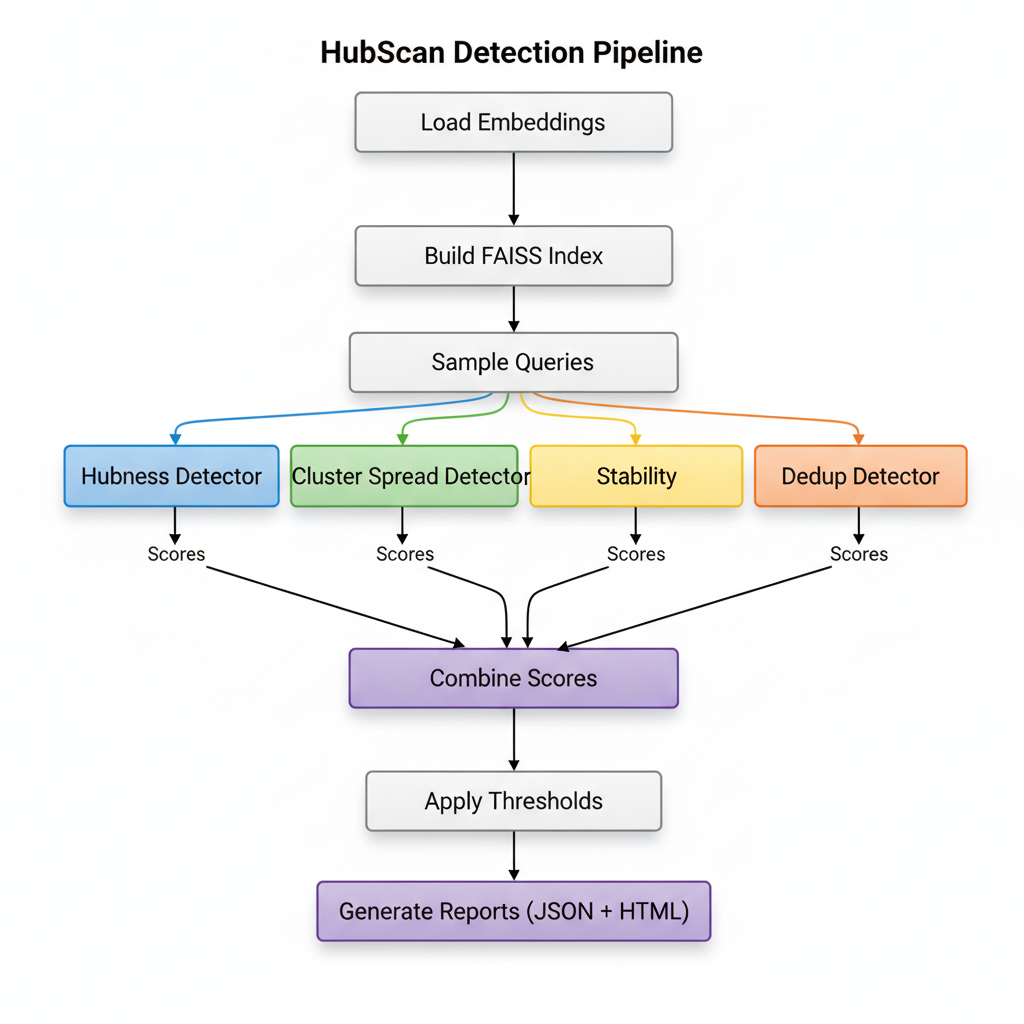
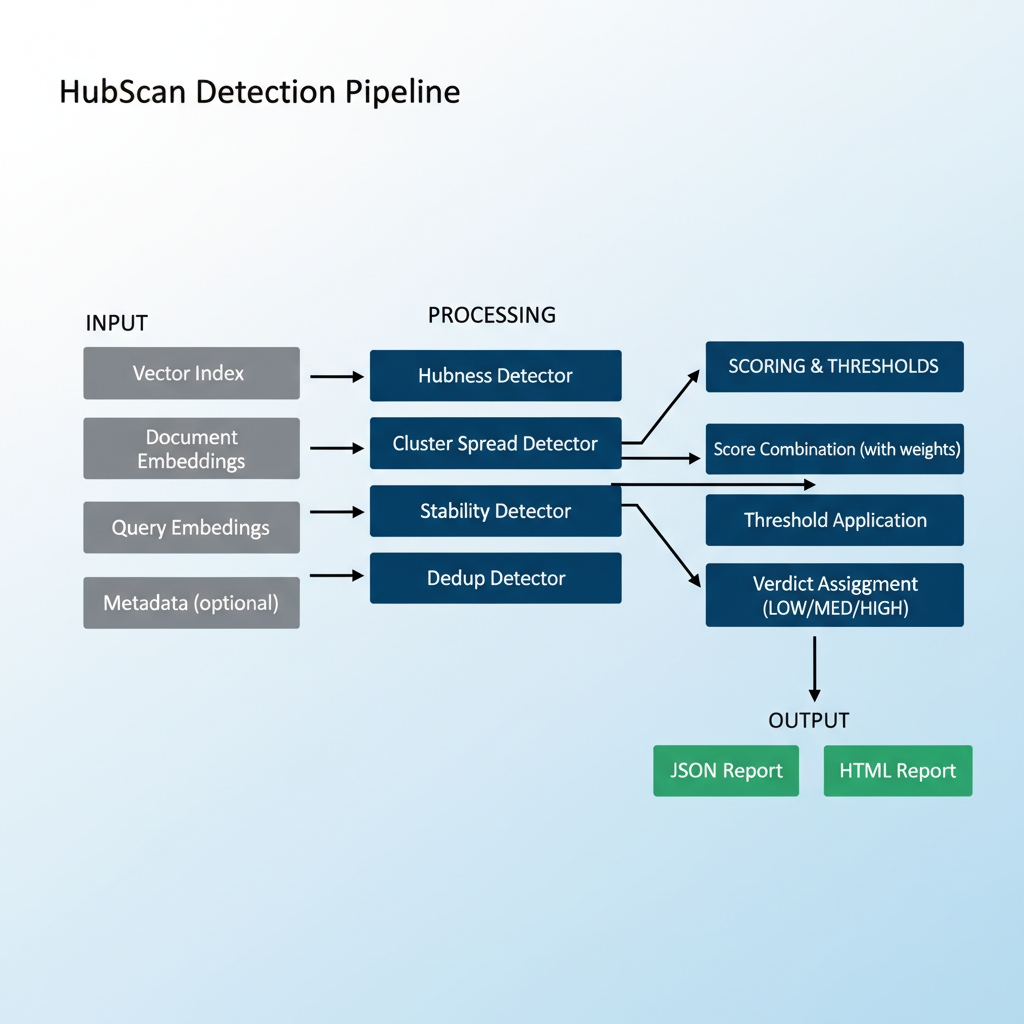
Update images and README to be generic (remove FAISS-specific references)
- Regenerate detection-pipeline.png to be generic (no FAISS mentions)
- Add vector-db-abstraction.png showing plug-and-play architecture
- Update README to emphasize multi-backend support
- Keep FAISS mentions only where appropriate (as one supported backend)

diff --git a/README.md b/README.md
@@ -3,7 +3,7 @@
 [![License](https://img.shields.io/badge/license-Apache%202.0-blue.svg)](LICENSE)
 [![Python](https://img.shields.io/badge/python-3.11%2B-blue.svg)](https://www.python.org/downloads/)
 
-HubScan is an open-source security scanner that audits FAISS vector indices and embeddings to detect **adversarial hubs** in Retrieval-Augmented Generation (RAG) and vector search systems. It identifies malicious document embeddings that manipulate retrieval results by appearing in top-k results for an unusually large fraction of diverse queries.
+HubScan is an open-source security scanner that audits vector indices and embeddings to detect **adversarial hubs** in Retrieval-Augmented Generation (RAG) and vector search systems. It supports multiple vector databases (FAISS, Pinecone, Qdrant, Weaviate) and identifies malicious document embeddings that manipulate retrieval results by appearing in top-k results for an unusually large fraction of diverse queries.
 
 ## Table of Contents
 
@@ -59,8 +59,8 @@ HubScan uses robust statistical methods (median/MAD-based z-scores) to identify 
   - **Stability Testing**: Consistency analysis under query perturbations
   - **Deduplication**: Boilerplate and duplicate detection
 
-- **Flexible Input Modes**:
-  - `embeddings_only`: Build FAISS index on-the-fly from embeddings
+- **Flexible Input Modes** (Plug-and-Play Architecture):
+  - `embeddings_only`: Build vector index on-the-fly from embeddings (uses FAISS by default)
   - `faiss_index`: Use pre-built FAISS indices
   - `pinecone`: Connect to Pinecone vector database
   - `qdrant`: Connect to Qdrant vector database
@@ -90,6 +90,12 @@ HubScan uses robust statistical methods (median/MAD-based z-scores) to identify 
 ![HubScan Detection Pipeline](docs/images/detection-pipeline.png)
 
 *The HubScan detection pipeline processes embeddings through multiple parallel detectors, combines scores, applies thresholds, and generates comprehensive reports.*
+
+### Vector Database Abstraction Layer
+
+![Vector Database Abstraction](docs/images/vector-db-abstraction.png)
+
+*HubScan's plug-and-play architecture supports multiple vector databases through a unified VectorIndex interface. Detectors work seamlessly with FAISS, Pinecone, Qdrant, Weaviate, and other backends via adapter pattern.*
 
 ## Installation
 
